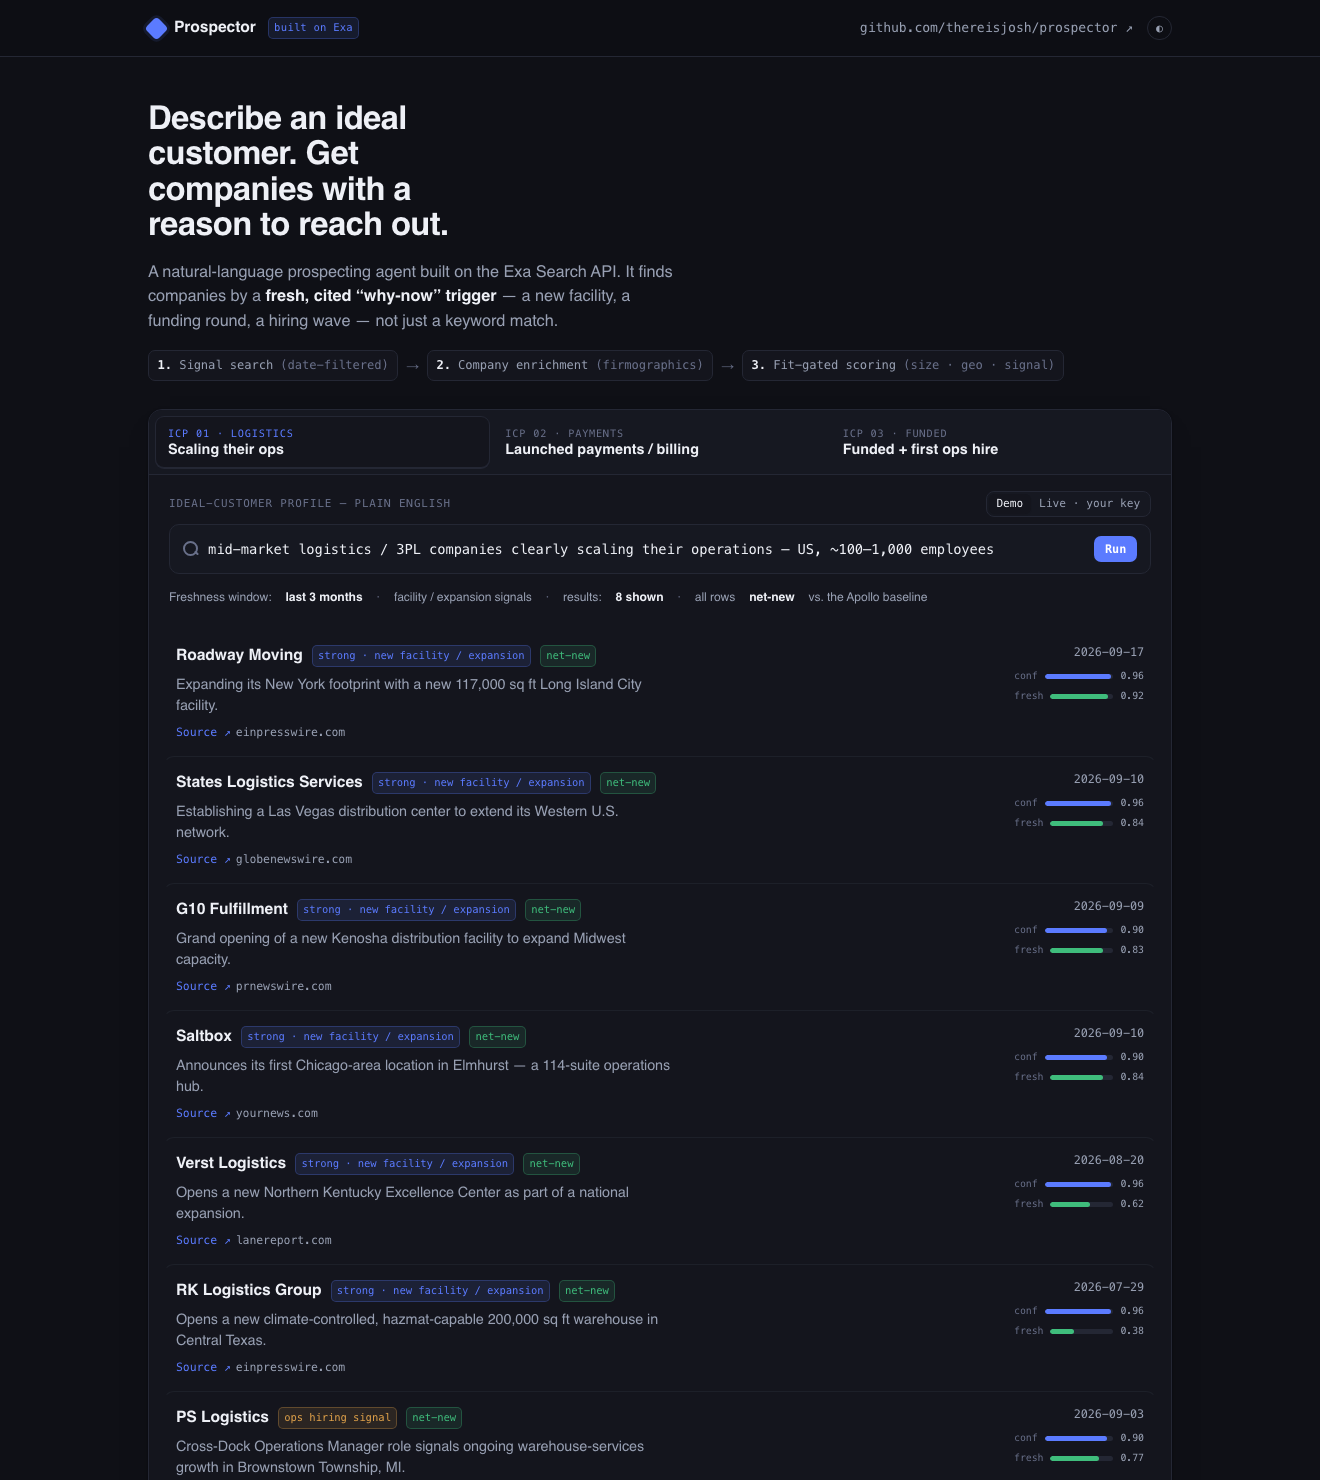
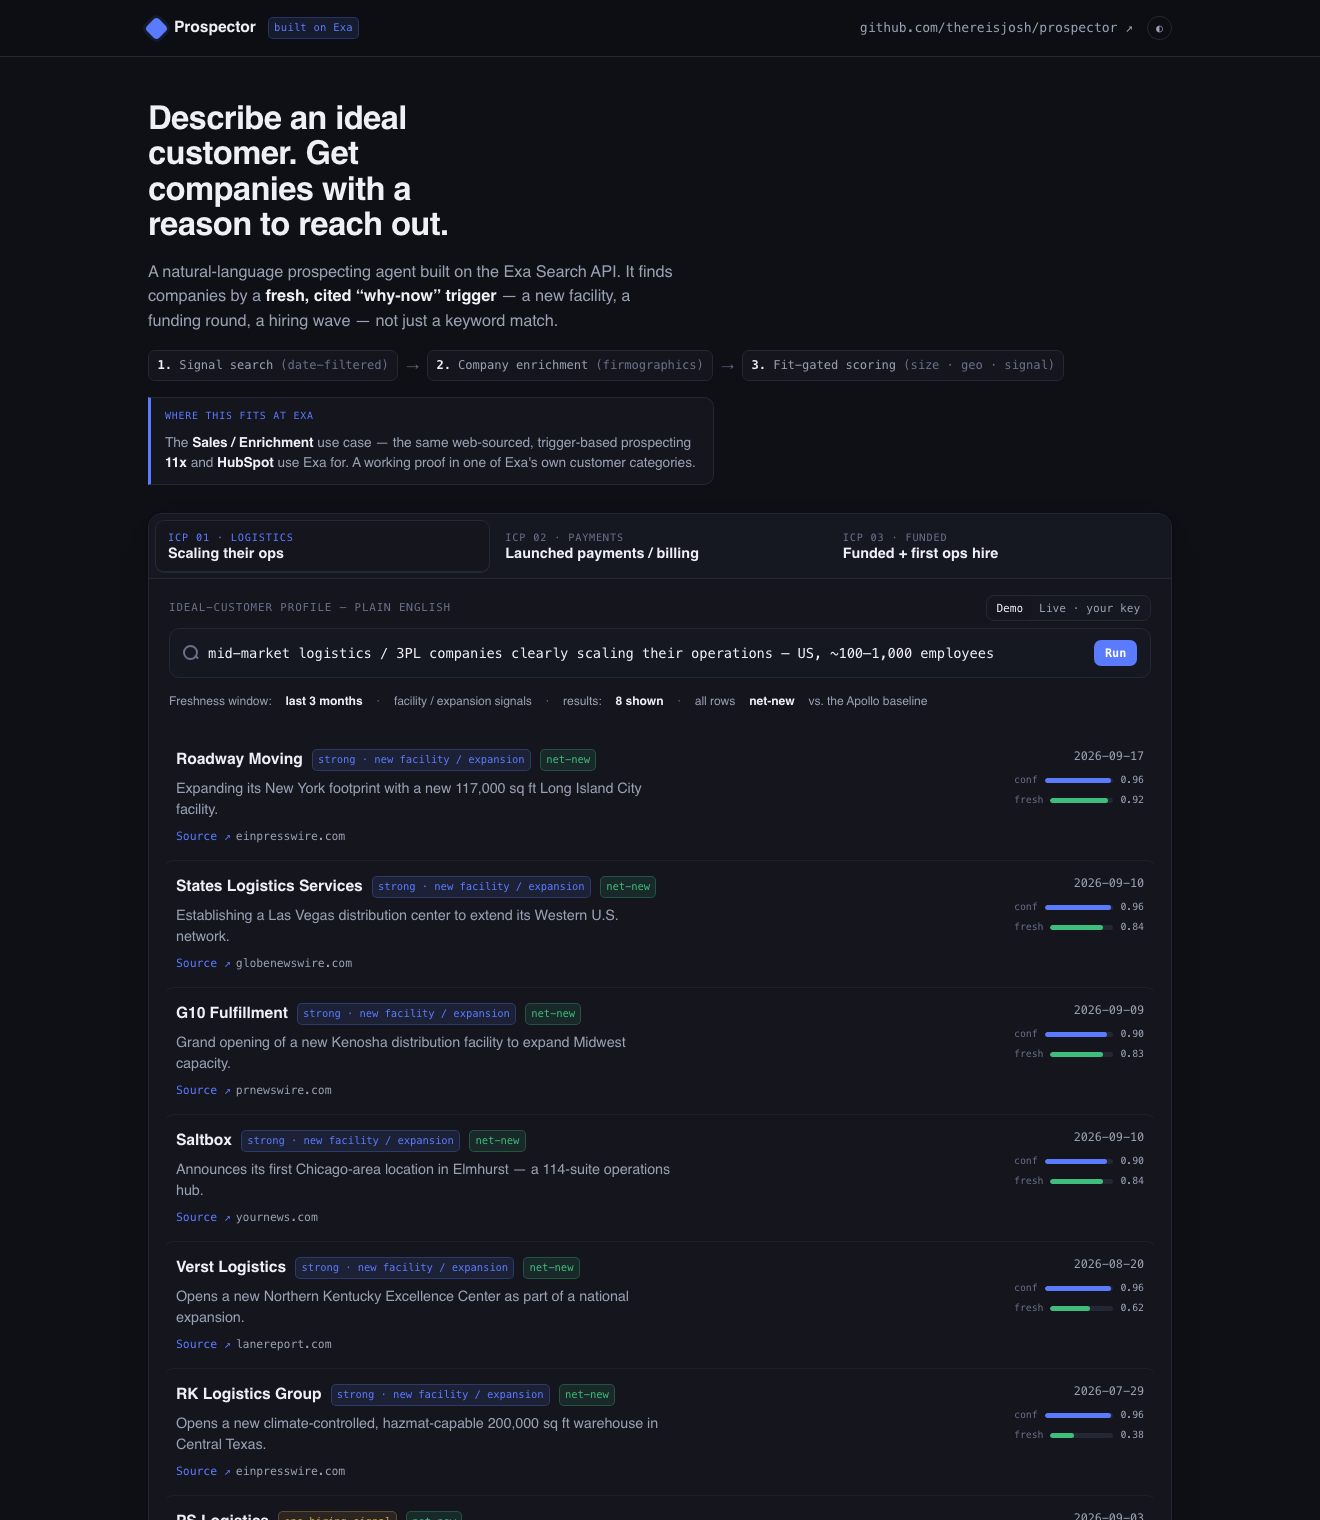
Frame demo + README against Exa's real customer use-case categories (Sales/Enrichment: 11x, HubSpot)
Claude-Session: https://claude.ai/code/session_01FSm79GLX9JYzaaV5pnctfj

diff --git a/docs/index.html b/docs/index.html
@@ -42,6 +42,9 @@
   .step{font-size:.76rem;font-family:var(--mono);color:var(--muted);background:var(--card);border:1px solid var(--line);border-radius:7px;padding:.42em .7em}
   .step b{color:var(--ink);font-weight:600}
   .arw{color:var(--faint);font-size:.8rem}
+  .ctx{margin-top:16px;display:flex;flex-wrap:wrap;align-items:baseline;gap:8px 10px;font-size:.86rem;color:var(--muted);background:var(--card);border:1px solid var(--line);border-left:3px solid var(--accent);border-radius:0 10px 10px 0;padding:11px 14px;max-width:74ch}
+  .ctx-k{font-family:var(--mono);font-size:.62rem;letter-spacing:.08em;text-transform:uppercase;color:var(--accent);white-space:nowrap}
+  .ctx b{color:var(--ink);font-weight:640}
   .panel{background:var(--card);border:1px solid var(--line);border-radius:14px;box-shadow:var(--shadow);overflow:hidden;margin-top:8px}
   .tabs{display:flex;gap:2px;padding:6px;border-bottom:1px solid var(--line);background:var(--panel);overflow-x:auto}
   .tab{flex:1;min-width:150px;text-align:left;padding:10px 12px;border-radius:9px;border:1px solid transparent;background:transparent;cursor:pointer;font-family:inherit;color:var(--muted)}
@@ -124,6 +127,7 @@
       <span class="arw">→</span>
       <span class="step"><b>3.</b> Fit-gated scoring <span style="color:var(--faint)">(size · geo · signal)</span></span>
     </div>
+    <div class="ctx"><span class="ctx-k">Where this fits at Exa</span><span>The <b>Sales / Enrichment</b> use case — the same web-sourced, trigger-based prospecting <b>11x</b> and <b>HubSpot</b> use Exa for. A working proof in one of Exa's own customer categories.</span></div>
   </section>
 
   <section class="panel">

diff --git a/README.md b/README.md
@@ -9,6 +9,18 @@ Built as a hands-on exploration of Exa's API against a self-authored customer sc
 
 ![Prospector demo](docs/screenshots/demo-light.png)
 
+## Where this fits at Exa
+Exa publishes its customers by use-case category. Prospector is a working proof of the **Sales / Enrichment** category — the same web-sourced, trigger-based prospecting Exa's own customers pay for:
+
+| Category | Exa customers | Use |
+|---|---|---|
+| **Sales / Enrichment** | **11x** · HubSpot · HockeyStack · Obvious | 11x *“identifies sales prospects through web-sourced trigger signals”* — exactly what Prospector does |
+| Agents | Cognition (Devin) · StackAI · monday.com | Exa as the web-search tool inside agents |
+| Coding | Cognition · CodeRabbit · Cursor | code / docs search for coding agents |
+| Research / grounding | Anara · OpenRouter · WhyHow · Firefox | paper discovery, cited answers, anti-hallucination |
+
+_Source: [exa.ai/customers](https://exa.ai/customers)._
+
 ## The result — ICP 1 (logistics ops, scaling)
 See [`sample_output.md`](./sample_output.md): US mid-market 3PLs, each with a dated, cited scaling signal (new distribution center, expansion, hiring wave) — scored ~8/10 against the scenario's acceptance bar, and specifically *not* the enterprise giants a keyword filter surfaces.
 
